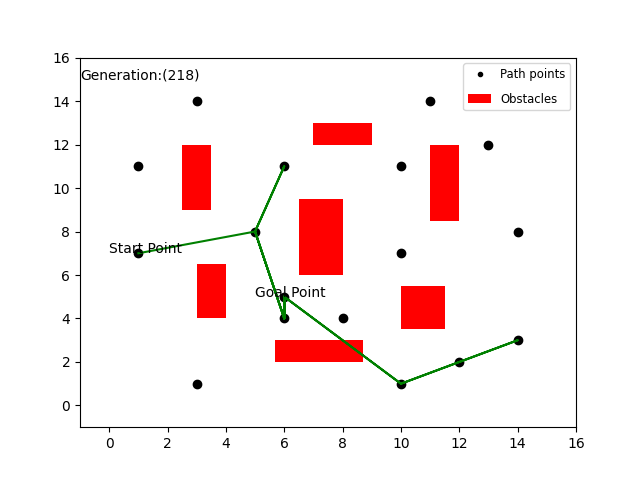
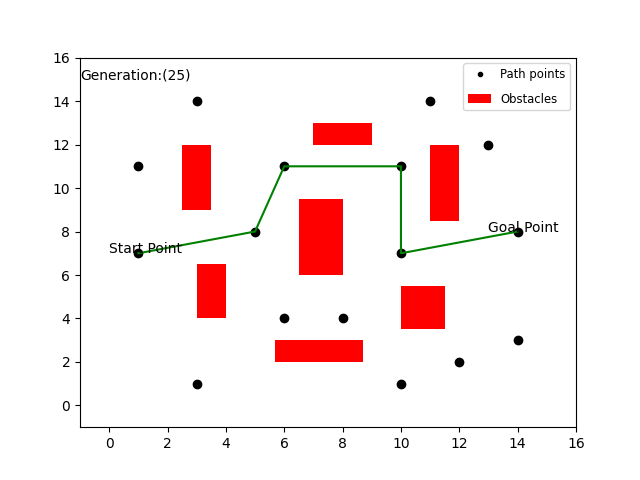
feat: genetic algo button

diff --git a/app.py b/app.py
@@ -187,10 +187,18 @@ def main():
             # Display the chart in Streamlit
             st.altair_chart(chart, use_container_width=True)
         return
+    geneticAlgorithmButton = st.sidebar.checkbox('Meta-heuristic Algorithm Demonstration');
+    
+    if( geneticAlgorithmButton):
+        geneticAlgorithm()
+        if(st.button('Run simulation')): 
+            components.html(html_string, height=800) 
+        return  
+
     option = st.sidebar.selectbox(
         'Choose 2D algorithm',
-        ('D* Algorithm', 'Bi-directional Algorithm',  'LPA* Algorithm', 'Anytime D* Algorithm', 'RTAA* Algorithm', 'Genetic Algorithm'))
-
+        ('D* Algorithm', 'Bi-directional Algorithm',  'LPA* Algorithm', 'Anytime D* Algorithm', 'RTAA* Algorithm'))
+    
     if option != 'Genetic Algorithm': 
         environments = st.sidebar.selectbox(
             'Choose environment',
@@ -264,8 +272,6 @@ def main():
             st.sidebar.metric(label="Best algorithm", value="Bidirectional A* Algorithm", delta="time, accurate")
             st.sidebar.markdown(html, unsafe_allow_html=True)
 
-    # if option == 'Genetic Algorithm':
-    #     geneticAlgorithm()
     elif( option == 'Genetic Algorithm'):
         geneticAlgorithm()
         if(st.button('Run simulation')): 
